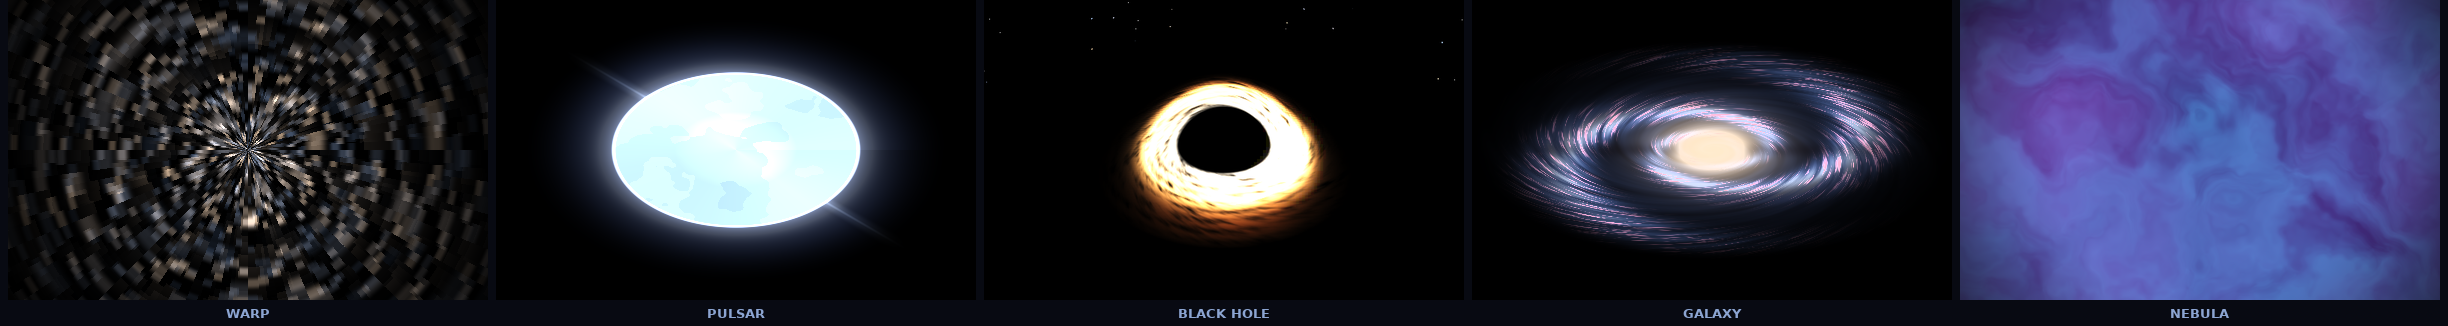
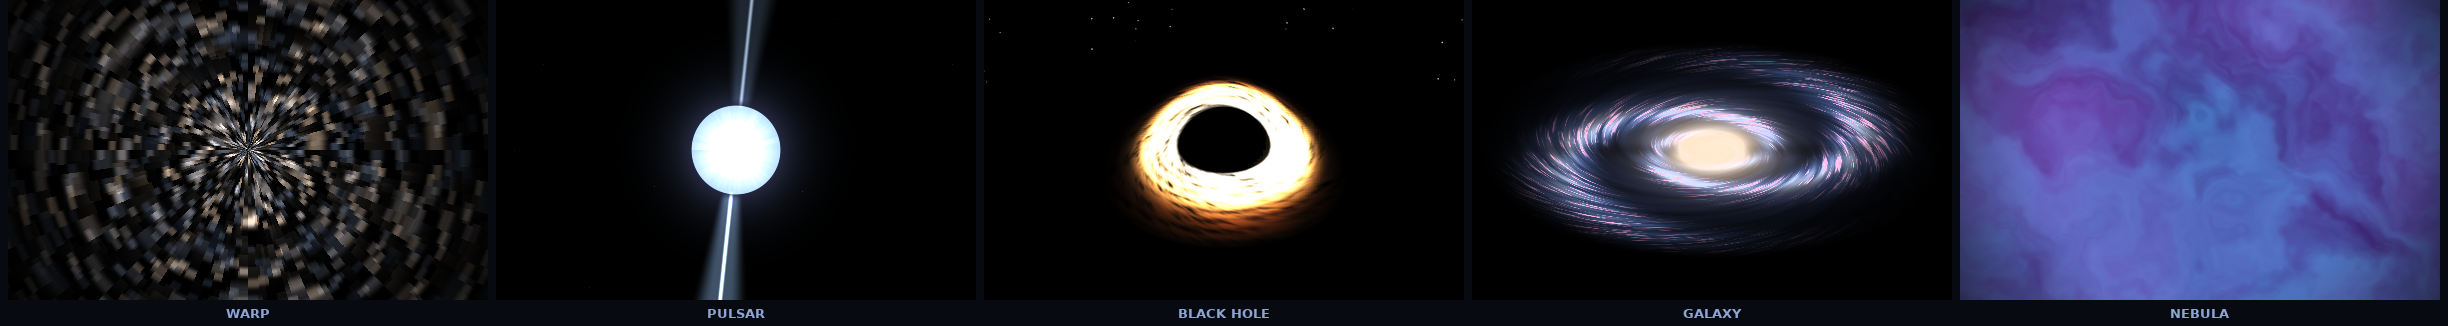
feat(jcode-desktop): rebuild pulsar as Vela-style neutron star — twin lighthouse beams sweeping top/bottom with pulse flashes

Changed region(s): [[0.2173, 0.0, 0.3725, 0.9202]]

diff --git a/jcode-desktop/src/renderer/film.js b/jcode-desktop/src/renderer/film.js
@@ -3,8 +3,8 @@
  *
  * Scenes play back-to-back with smooth cross-fades:
  *   1. warp       — flying through a streaming star field
- *   2. star       — a blue-white pulsar (Eluvade/cosmos star shader
- *                   + rotating lighthouse beams)  [MIT]
+ *   2. pulsar     — a spinning neutron star (Vela-style) with twin
+ *                   lighthouse beams sweeping from the poles
  *   3. black hole — vercel-labs/vgpu raymarched black hole
  *                   (geodesic lensing + accretion disk + HDR bloom)  [MIT]
  *   4. galaxy     — Eluvade/cosmos grand-design spiral  [MIT]
@@ -167,123 +167,97 @@
     '}',
   ].join('\n');
 
-  // --- Pulsar scene: Eluvade FRAG_STAR (MIT) + rotating beams ---
+  // --- Pulsar scene: neutron star + twin lighthouse beams (built from the
+  //     NASA lighthouse model; no third-party shader code) ---
   var STAR_FRAG = [
     'precision highp float;',
     'varying vec2 v_pos;',
-    'uniform float u_pixels;',
     'uniform float u_time;',
-    'uniform float u_time_speed;',
-    'uniform float u_rotation;',
-    'uniform float u_zoom;',
-    'uniform float u_seed1, u_seed2, u_seed3, u_seed4, u_seed5, u_seed6;',
-    'uniform vec4 u_col0, u_col1, u_col2, u_col3, u_col4;',
-    COMMON,
-    'void main() {',
-    '    vec2 raw_uv = v_pos;',
-    '    vec2 uv = (floor(raw_uv * u_pixels) / u_pixels) + 0.5;',
-    '    float t = u_time * u_time_speed;',
-    '    vec2 centered = (uv - 0.5) * u_zoom;',
-    '    float d_circle = length(centered);',
-    '    float angle = atan(centered.y, centered.x);',
-    '    float body_r = 0.28;',
-    '    float canvas_edge = 0.50;',
-    '    vec2 s_uv = centered / (body_r * 2.0) + 0.5;',
-    '    float s_d = distance(s_uv, vec2(0.5));',
-    '    float ang01 = angle / 6.2832 + 0.5;',
-    '    float glow_pulse = 1.0 + 0.12 * sin(t) + 0.06 * sin(t * 2.15);',
-    '    float x = max(d_circle / body_r, 1.0);',
-    '    float near = pow(x, -7.0);',
-    '    float far  = pow(x, -2.3);',
-    '    float tiltA = u_seed2 * 0.0628;',
-    '    float eq = 1.0 - 0.42 * abs(sin(angle - tiltA));',
-    '    float s1 = fbm_s(vec2(ang01 * 4.0, t * 0.03), 4, u_seed5, 4.0);',
-    '    float s2 = fbm_s(vec2(ang01 * 11.0, t * 0.05), 3, u_seed6, 11.0);',
-    '    float plume = 0.45 + 1.25 * pow(clamp(s1 * 1.25 + s2 * 0.4, 0.0, 1.0), 1.6);',
-    '    float thread = fbm_s(vec2(ang01 * 55.0, d_circle * 1.6 - t * 0.04), 2, u_seed6, 55.0);',
-    '    float threading = 0.80 + 0.40 * thread;',
-    '    float corona = near * 0.55 + far * eq * plume * threading * 0.42;',
-    '    corona *= smoothstep(canvas_edge, canvas_edge * 0.72, d_circle);',
-    '    corona *= glow_pulse;',
-    '    vec3 cor_col = mix(u_col4.rgb, u_col0.rgb, clamp(near * 2.2, 0.0, 1.0));',
-    '    vec4 result = vec4(cor_col, clamp(corona, 0.0, 1.0) * 0.85 * u_col4.a);',
-    '    float sp_hi = fbm_s(vec2(ang01 * 85.0, t * 0.10), 2, u_seed6, 85.0);',
-    '    float sp_lo = fbm_s(vec2(ang01 * 20.0, t * 0.06), 3, u_seed6, 20.0);',
-    '    float sp_len = 0.005 + 0.024 * sp_hi * (0.4 + sp_lo);',
-    '    float sp_a = smoothstep(body_r + sp_len, body_r, d_circle) * step(body_r - 0.004, d_circle);',
-    '    result = alphaBlend(result, vec4(u_col1.rgb, sp_a * 0.85));',
-    '    float prom = 0.0;',
-    '    float prom_hot = 0.0;',
-    '    for (int i = 0; i < 5; i++) {',
-    '        float fi = float(i);',
-    '        float ha = rand_s(vec2(fi, 3.0), u_seed3, 8.0);',
-    '        float hs = rand_s(vec2(fi, 9.0), u_seed3, 8.0);',
-    '        float hl = rand_s(vec2(fi, 5.0), u_seed3, 8.0);',
-    '        float pa = (ha + t * 0.012 + fi * 0.2) * 6.2832;',
-    '        float life = 0.5 - 0.5 * cos((t * 0.16 + hs) * 6.2832);',
-    '        float rad = (0.032 + 0.070 * hl) * (0.35 + 0.65 * life);',
-    '        vec2 c = vec2(cos(pa), sin(pa)) * (body_r * 0.96);',
-    '        float dl = abs(length(centered - c) - rad);',
-    '        float thick = 0.006 + 0.010 * hl;',
-    '        float outside = step(body_r, d_circle);',
-    '        float band = smoothstep(thick, thick * 0.25, dl) * outside;',
-    '        prom = max(prom, band * (0.45 + 0.55 * life));',
-    '        prom_hot = max(prom_hot, smoothstep(thick * 0.5, 0.0, dl) * outside * life);',
-    '    }',
-    '    result = alphaBlend(result, vec4(u_col2.rgb, prom * 0.95));',
-    '    result = alphaBlend(result, vec4(u_col1.rgb, prom_hot * 0.55));',
-    '    float rim_a = smoothstep(body_r + 0.007, body_r + 0.002, d_circle)',
-    '                * smoothstep(body_r - 0.005, body_r - 0.001, d_circle);',
-    '    result = alphaBlend(result, vec4(u_col0.rgb, rim_a * 0.8));',
-    '    float star_a = step(d_circle, body_r);',
-    '    vec2 star_pix = rotate2d(s_uv, u_rotation);',
-    '    star_pix = spherify(star_pix);',
-    '    float n = cells(star_pix + vec2(t, 0.0), 10.0, 2.0);',
-    '    n *= cells(star_pix + vec2(t * 0.5, 0.0), 20.0, 2.0);',
-    '    n *= 2.0;',
-    '    n = clamp(n, 0.0, 1.0);',
-    '    float interp = floor(n * 3.0) / 3.0;',
-    '    vec4 star_col = sampleRamp4(interp, u_col0, u_col1, u_col2, u_col3);',
-    '    float limb = 1.0 - 0.62 * pow(clamp(s_d / 0.5, 0.0, 1.0), 2.6);',
-    '    star_col.rgb = mix(u_col3.rgb, star_col.rgb, limb);',
-    '    result = alphaBlend(result, vec4(star_col.rgb, star_a * star_col.a));',
-    '    float flare_scale = 1.2;',
-    '    vec2 flare_uv = (s_uv - 0.5) / flare_scale + 0.5;',
-    '    float flare_d = distance(flare_uv, vec2(0.5));',
-    '    float flare_sz = 2.0;',
-    '    float flare_turn = fract((angle - u_rotation) / 6.2832 + 0.5) * flare_sz;',
-    '    vec2 flare_circleUV = vec2(flare_d, flare_turn);',
-    '    float fn = fbm_s(flare_circleUV * flare_sz + t * 0.5, 4, u_seed4, flare_sz);',
-    '    float fnc = circlePattern(flare_circleUV * 1.0 + t * 0.5 + fn, 2.0, 1.0, u_seed4, flare_sz);',
-    '    fnc *= 1.5;',
-    '    float fn2 = fbm_s(flare_circleUV * flare_sz + t * 0.5 + vec2(100.0, 100.0), 4, u_seed4, flare_sz);',
-    '    fnc -= fn2 * 0.1;',
-    '    float flare_a = 0.0;',
-    '    float storm_w = 0.2;',
-    '    float storm_dw = 0.07;',
-    '    float in_storm = step(fnc, 1.0 - flare_d);',
-    '    float edge_a = step(storm_w - storm_dw + flare_d, fnc);',
-    '    float full_a = step(storm_w + flare_d, fnc);',
-    '    flare_a = in_storm * max(edge_a, full_a);',
-    '    float flare_interp = floor(fn2 + fnc);',
-    '    vec4 flare_col = sampleRamp4(clamp(flare_interp, 0.0, 1.0), u_col0, u_col1, u_col2, u_col3);',
-    '    flare_a *= step(fn2 * 0.25, flare_d);',
-    '    flare_a *= step(d_circle, canvas_edge);',
-    '    result = alphaBlend(result, vec4(flare_col.rgb, flare_a * flare_col.a));',
-    '    // === PULSAR BEAMS — two opposing cones, rotating lighthouse ===',
-    '    float bAxis = u_rotation + t * 0.25;',
-    '    vec2 bd = vec2(cos(bAxis), sin(bAxis));',
-    '    float along = dot(centered, bd);',
-    '    float perp = dot(centered, vec2(-bd.y, bd.x));',
-    '    float len = abs(along);',
-    '    float cone = smoothstep(0.012 + len * 0.035, 0.002 + len * 0.008, abs(perp));',
-    '    cone *= smoothstep(0.55, 0.10, len);',
-    '    cone *= step(body_r, len);',
-    '    float filament = smoothstep(0.006, 0.0, abs(perp)) * smoothstep(0.55, 0.05, len) * step(body_r, len);',
-    '    float pulse = 0.55 + 0.45 * sin(t * 3.2);',
-    '    float beamA = clamp(cone * 0.55 + filament * 0.9, 0.0, 1.0) * pulse;',
-    '    result = alphaBlend(result, vec4(vec3(0.75, 0.85, 1.0), beamA * 0.85));',
-    '    gl_FragColor = result;',
+    'uniform vec2 u_resolution;',
+    '',
+    'float hash21(vec2 p){ vec2 q = fract(p * vec2(123.34, 456.21)); q += vec2(dot(q, q + vec2(45.32))); return fract(q.x * q.y); }',
+    'float vnoise(vec2 p){ vec2 i = floor(p); vec2 f = fract(p); f = f * f * (3.0 - 2.0 * f); return mix(mix(hash21(i), hash21(i + vec2(1.0, 0.0)), f.x), mix(hash21(i + vec2(0.0, 1.0)), hash21(i + vec2(1.0, 1.0)), f.x), f.y); }',
+    'float fbm(vec2 p){ float v = 0.0; float a = 0.5; for (int i = 0; i < 5; i++){ v += a * vnoise(p); p *= 2.03; a *= 0.5; } return v; }',
+    '',
+    'void main(){',
+    '    vec2 uv = v_pos;',
+    '    float aspect = u_resolution.x / u_resolution.y;',
+    '    vec2 p = vec2(uv.x * aspect, uv.y);',
+    '    float t = u_time;',
+    '',
+    '    // background starfield',
+    '    vec3 bg = vec3(0.0);',
+    '    vec2 gcell = floor(p * 220.0);',
+    '    float gs = hash21(gcell);',
+    '    float gpos = step(0.9965, gs);',
+    '    vec2 gf = fract(p * 220.0) - 0.5;',
+    '    vec2 goff = (vec2(hash21(gcell + vec2(7.3, 2.1)), hash21(gcell + vec2(1.7, 9.9))) - 0.5) * 0.6;',
+    '    float gd = length(gf - goff);',
+    '    float gtw = 0.6 + 0.4 * sin(t * (1.0 + gs * 2.0) + gs * 90.0);',
+    '    bg += vec3(0.75, 0.85, 1.0) * gpos * smoothstep(0.12, 0.0, gd) * gtw;',
+    '',
+    '    // magnetic axis: precesses around a tilted rotation axis (lighthouse model)',
+    '    vec3 rotAxis = normalize(vec3(0.15, 1.0, 0.45));',
+    '    float tilt = 0.9;',
+    '    float th = t * 1.8;',
+    '    vec3 uu = normalize(cross(rotAxis, vec3(0.0, 0.0, 1.0)));',
+    '    vec3 vv = cross(rotAxis, uu);',
+    '    vec3 m = normalize(rotAxis * cos(tilt) + (uu * cos(th) + vv * sin(th)) * sin(tilt));',
+    '',
+    '    // neutron star (small, hot, blue-white)',
+    '    float R = 0.15;',
+    '    float d = length(p);',
+    '    float starDisc = smoothstep(R, R - 0.004, d);',
+    '    float ang = atan(p.y, p.x);',
+    '    float an01 = ang / 6.28318 + 0.5;',
+    '    float gran = fbm(vec2(an01 * 30.0, t * 0.18)) * 0.55 + fbm(vec2(an01 * 90.0, t * 0.3)) * 0.45;',
+    '    vec3 hotC = vec3(0.95, 0.97, 1.0);',
+    '    vec3 coolC = vec3(0.55, 0.70, 0.98);',
+    '    vec3 surf = mix(coolC, hotC, clamp(gran * 1.25, 0.0, 1.0));',
+    '    float limb = 1.0 - 0.75 * pow(clamp(d / R, 0.0, 1.0), 2.4);',
+    '    surf = mix(coolC, surf, limb);',
+    '',
+    '    // glow',
+    '    float glow = exp(-d * d * 260.0);',
+    '    float halo = exp(-d * d * 26.0) * 0.30;',
+    '',
+    '    // beams: two cones along +m / -m, foreshortening + lighthouse pulse',
+    '    vec2 m2d = normalize(m.xy + vec2(1e-4));',
+    '    vec2 perp2d = vec2(-m2d.y, m2d.x);',
+    '    float al = dot(p, m2d);',
+    '    float aLen = abs(al);',
+    '    float pe = abs(dot(p, perp2d));',
+    '    float mzAbs = abs(m.z);',
+    '    float mlen = length(m.xy);',
+    '    float width = 0.015 + aLen * 0.16;',
+    '    float cone = smoothstep(width, width * 0.30, pe);',
+    '    float fil = smoothstep(0.010, 0.0, pe);',
+    '    float reach = smoothstep(mlen * 2.0, mlen * 0.55, aLen);',
+    '    float beamOn = smoothstep(R * 0.9, R * 1.15, aLen);',
+    '    float pulseN = 0.35 + 0.65 * smoothstep(-0.15, 0.95, m.z);',
+    '    float pulseS = 0.35 + 0.65 * smoothstep(-0.15, 0.95, -m.z);',
+    '    float pulse = mix(pulseS, pulseN, step(0.0, al));',
+    '    vec3 beamCol = vec3(0.62, 0.80, 1.0);',
+    '    float beamA = (cone * 0.55 + fil * 0.95) * reach * pulse * beamOn;',
+    '',
+    '    // head-on pulse flash (beam sweeping across the line of sight)',
+    '    float headOn = smoothstep(0.70, 0.97, mzAbs) * exp(-d * d * 30.0);',
+    '',
+    '    // magnetosphere glow (violet)',
+    '    float magPulse = 0.5 + 0.5 * sin(t * 3.6 + 0.5);',
+    '    float mag = exp(-d * d * 55.0) * (0.22 + 0.30 * magPulse);',
+    '    vec3 magCol = vec3(0.52, 0.42, 0.85);',
+    '',
+    '    vec3 col = bg;',
+    '    col += surf * starDisc;',
+    '    col += hotC * glow * 0.9;',
+    '    col += coolC * halo;',
+    '    col += magCol * mag;',
+    '    col += beamCol * beamA;',
+    '    col += vec3(1.0) * fil * reach * pulse * beamOn * 0.8;',
+    '    col += vec3(1.0, 0.95, 1.0) * headOn * (0.55 + 0.45 * pulse);',
+    '',
+    '    gl_FragColor = vec4(col, 1.0);',
     '}',
   ].join('\n');
 
@@ -677,22 +651,8 @@
     bindAndClear(fbo);
     var p = prog.star;
     gl.useProgram(p);
-    gl.uniform1f(L(p, 'u_pixels'), fbo.h);
     gl.uniform1f(L(p, 'u_time'), t);
-    gl.uniform1f(L(p, 'u_time_speed'), 1.0);
-    gl.uniform1f(L(p, 'u_rotation'), t * 0.03);
-    gl.uniform1f(L(p, 'u_zoom'), 1.0 + t * 0.02);
-    gl.uniform1f(L(p, 'u_seed1'), 7.3);
-    gl.uniform1f(L(p, 'u_seed2'), 13.7);
-    gl.uniform1f(L(p, 'u_seed3'), 4.1);
-    gl.uniform1f(L(p, 'u_seed4'), 9.9);
-    gl.uniform1f(L(p, 'u_seed5'), 2.7);
-    gl.uniform1f(L(p, 'u_seed6'), 5.3);
-    gl.uniform4f(L(p, 'u_col0'), 0.72, 0.80, 1.00, 1);
-    gl.uniform4f(L(p, 'u_col1'), 0.60, 0.72, 1.00, 1);
-    gl.uniform4f(L(p, 'u_col2'), 0.44, 0.55, 0.92, 1);
-    gl.uniform4f(L(p, 'u_col3'), 0.30, 0.42, 0.80, 1);
-    gl.uniform4f(L(p, 'u_col4'), 0.50, 0.68, 1.00, 1);
+    gl.uniform2f(L(p, 'u_resolution'), fbo.w, fbo.h);
     drawQuad();
   }
 
